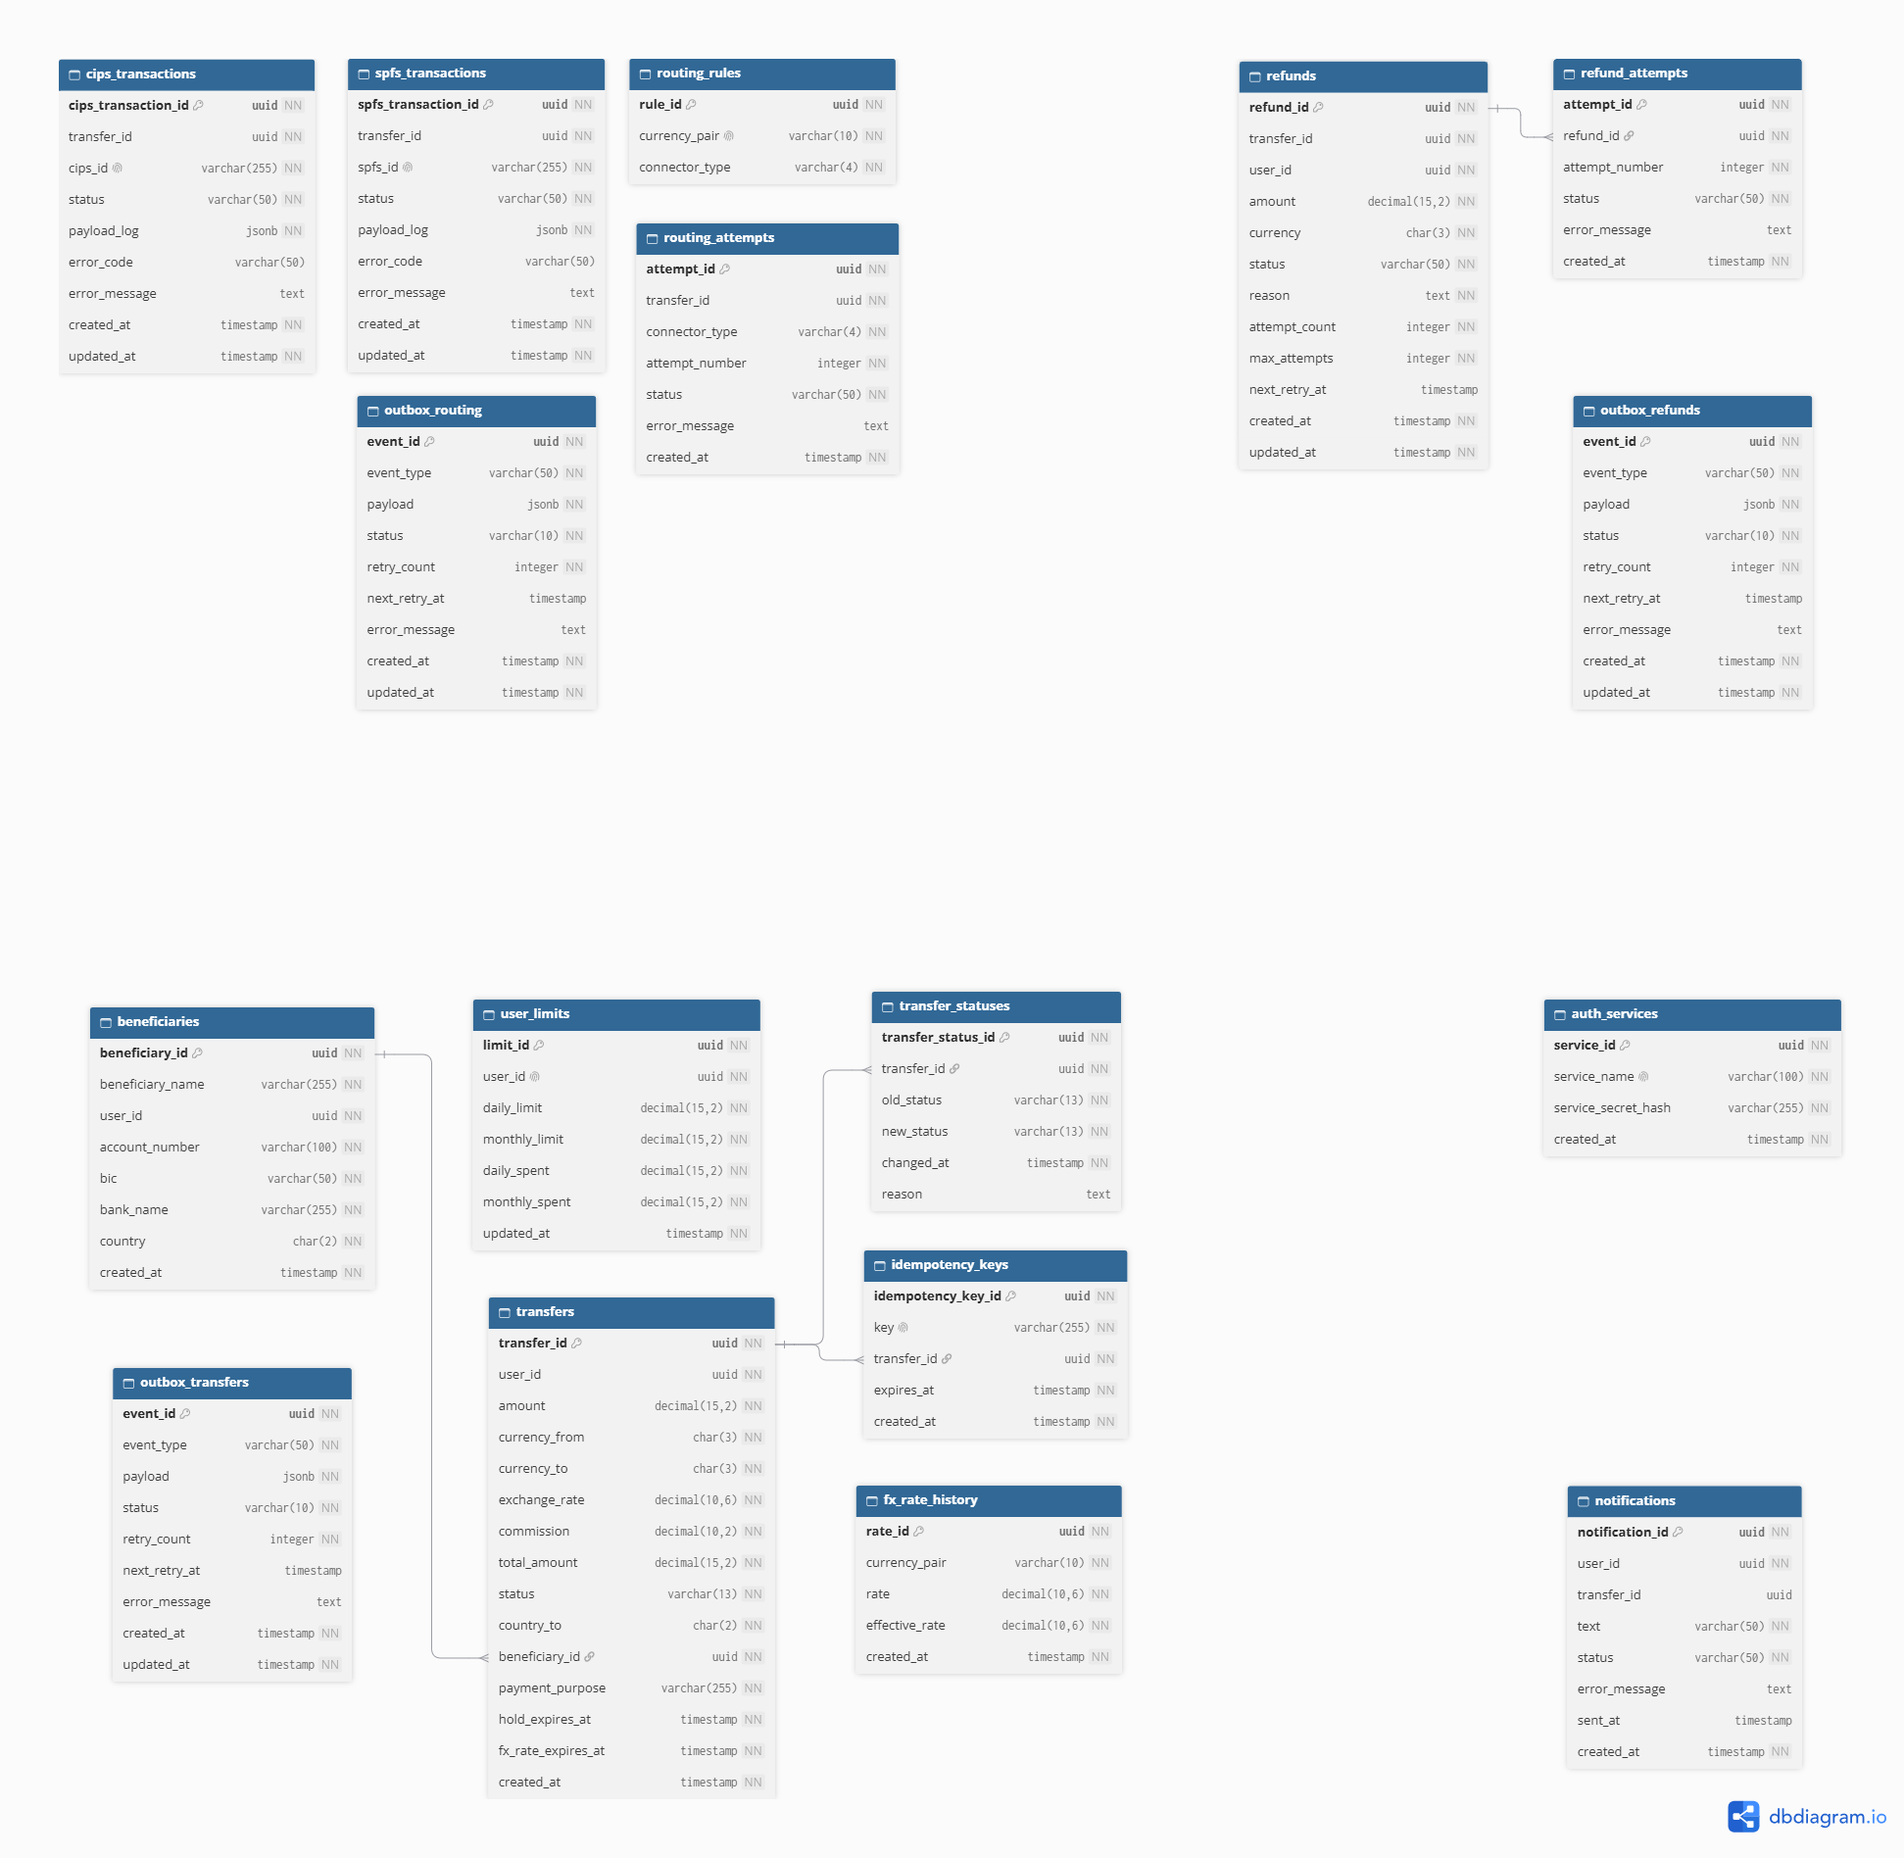
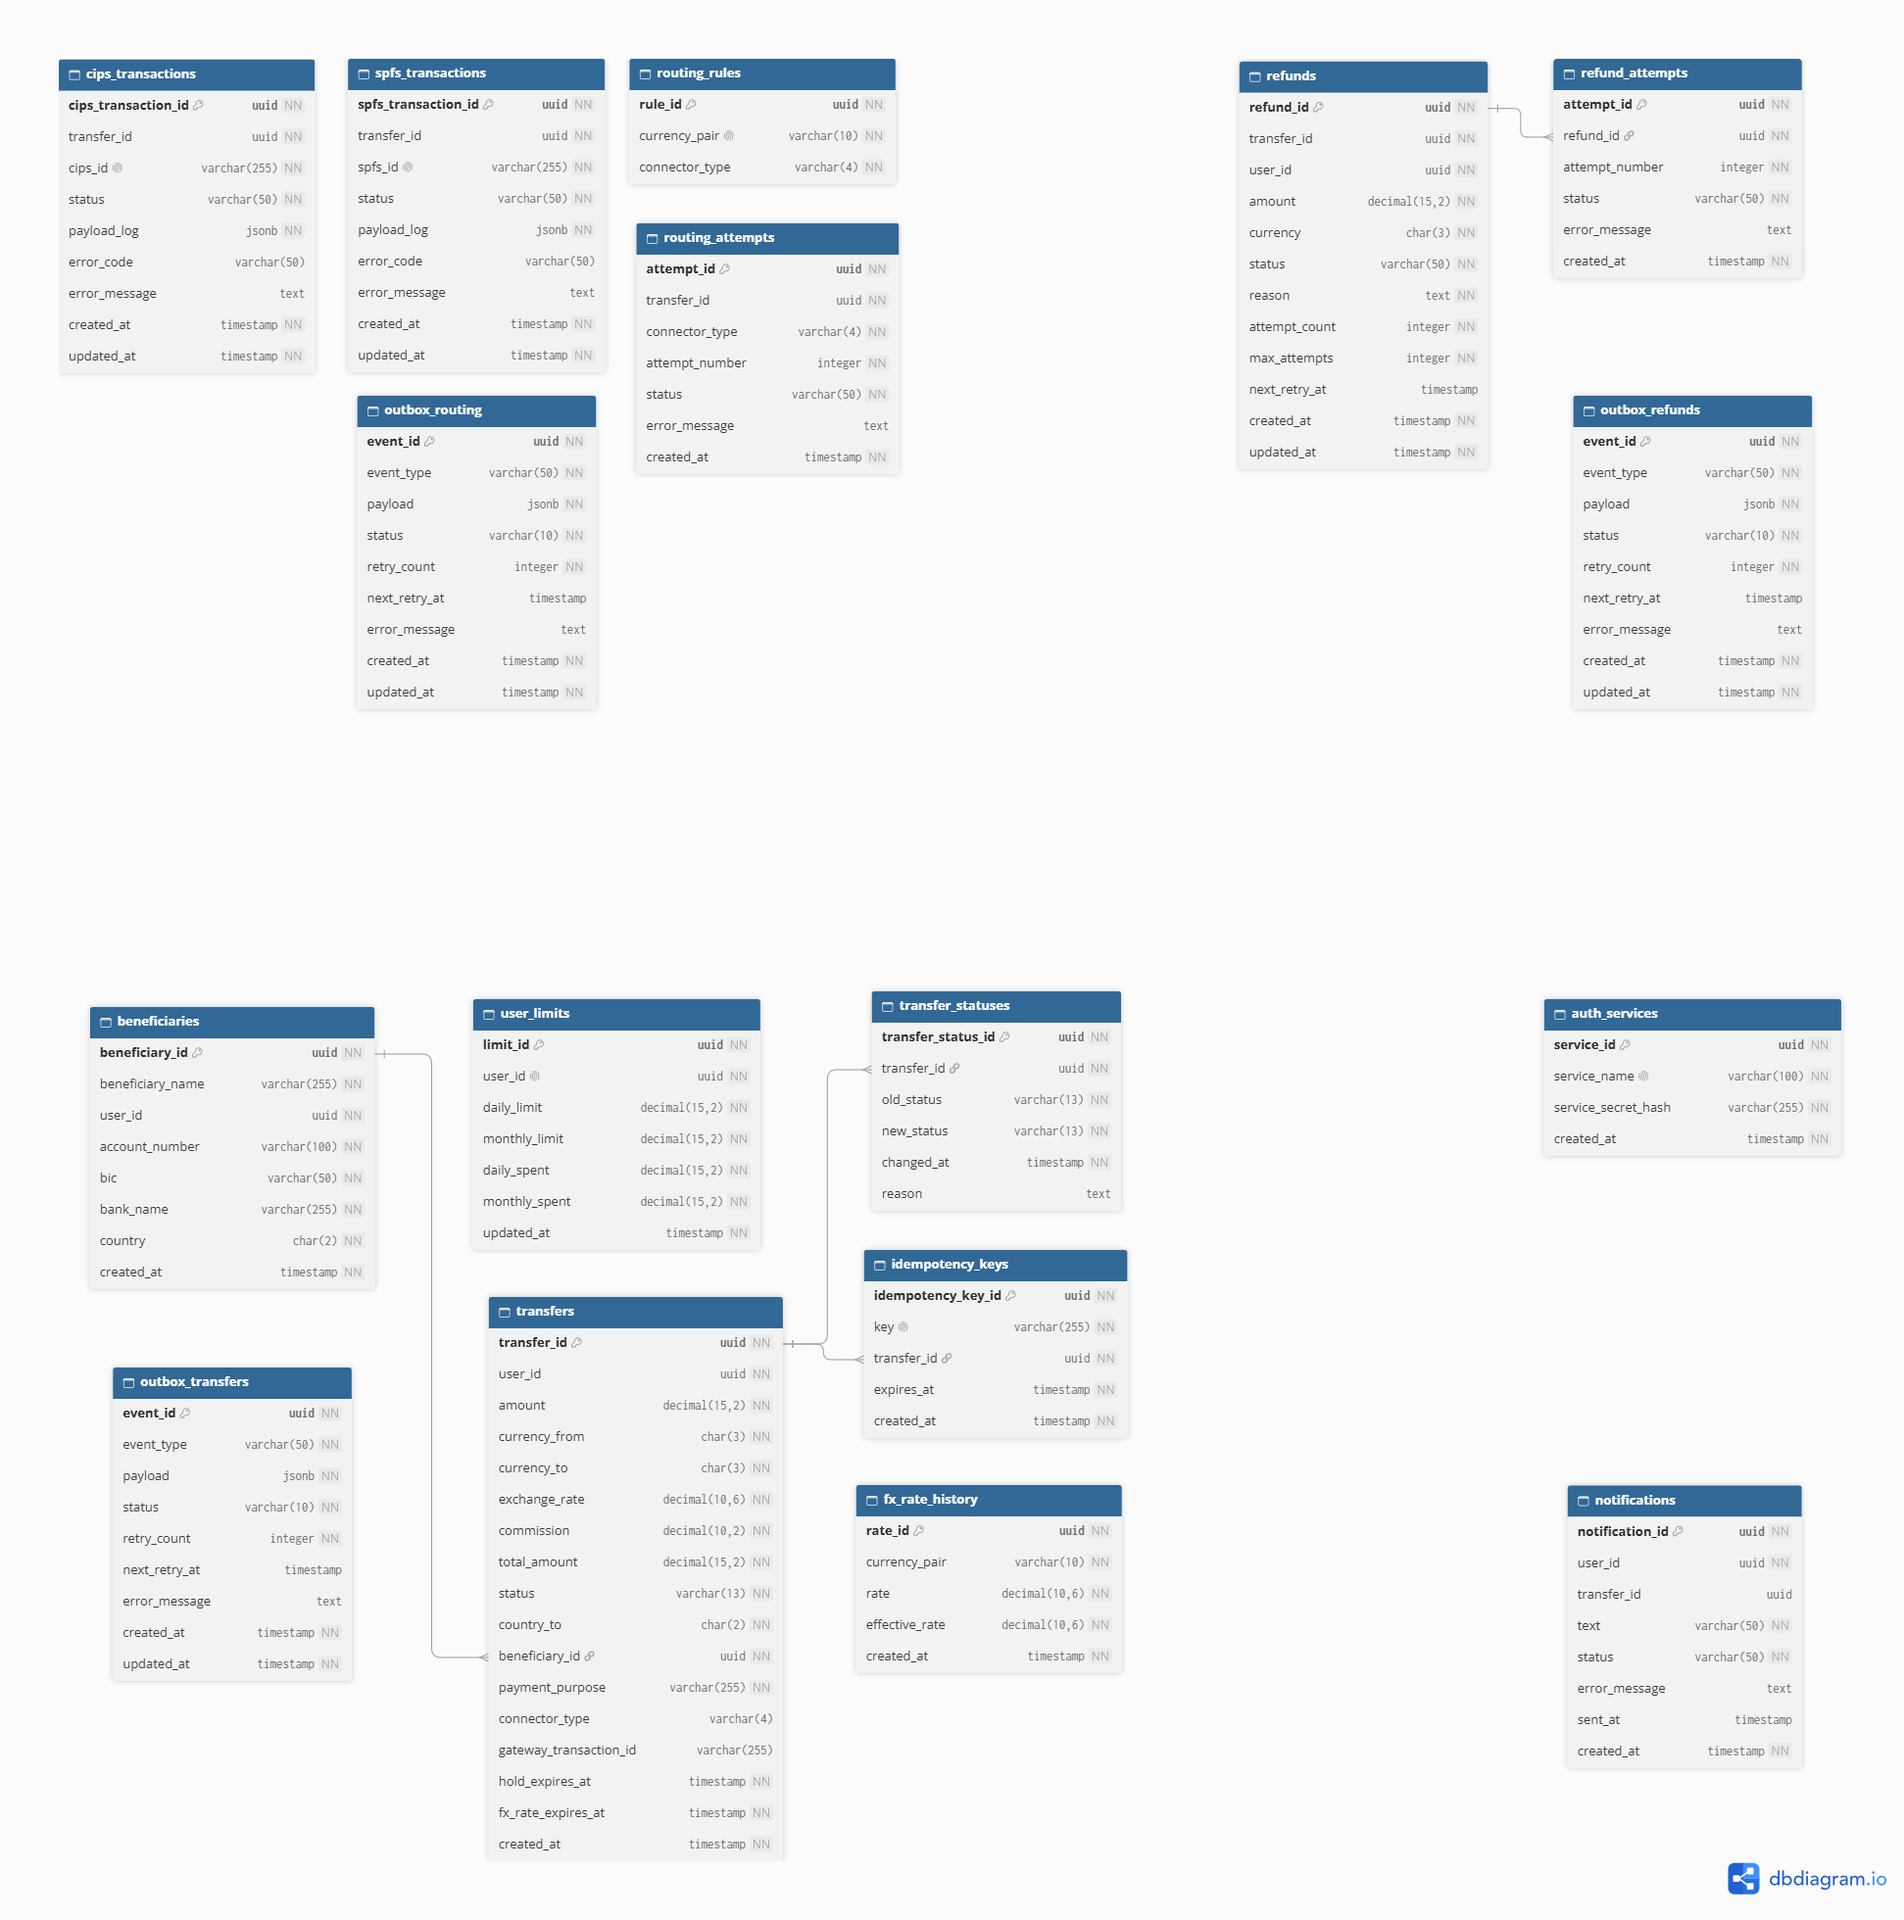
Исправить ошибки

diff --git a/04-API/Описание АПИ контрактов.md b/04-API/Описание АПИ контрактов.md
@@ -62,6 +62,8 @@ tags:
     description: Операции с переводами
   - name: fx
     description: Операции с курсами валют
+  - name: webhooks
+    description: Вебхуки от платёжных шлюзов
   
 paths:
   /transfers:
@@ -512,6 +514,120 @@ paths:
             application/json:
               schema:
                 $ref: '#/components/schemas/ErrorResponse'
+  /webhooks/spfs:
+    post:
+      summary: Вебхук от платёжной системы СПФС
+      description: Эндпоинт для получения уведомлений от платёжной системы СПФС об изменении статуса транзакции
+      tags:
+        - webhooks
+      operationId: webhookSpfs
+      security: []
+      parameters:
+        - name: X-Signature
+          in: header
+          required: true
+          schema:
+            type: string
+          description: HMAC-SHA256 подпись тела запроса
+        - name: X-Request-Id
+          in: header
+          required: true
+          schema:
+            type: string
+            format: uuid
+          description: Уникальный идентификатор запроса от шлюза 
+      requestBody:
+        required: true
+        content:
+          application/json:
+            schema:
+              $ref: '#/components/schemas/WebhookSpfsRequest'
+      responses:
+        '202':
+          description: Запрос принят на обработку
+        '400':
+          description: Ошибка валидации тела запроса
+          content:
+            application/json:
+              schema:
+                $ref: '#/components/schemas/ErrorResponse'
+        '401':
+          description: Неверная подпись запроса
+          content:
+            application/json:
+              schema:
+                $ref: '#/components/schemas/ErrorResponse'
+              example:
+                error:
+                  code: INVALID_SIGNATURE
+                  message: Неверная подпись запроса
+        '404':
+          description: Перевод не найден
+          content:
+            application/json:
+              schema:
+                $ref: '#/components/schemas/ErrorResponse'
+              example:
+                error:
+                  code: TRANSFER_NOT_FOUND
+                  message: Перевод по указанному transaction_id не найден
+  /webhooks/cips:
+    post:
+      summary: Вебхук от платёжной системы CIPS
+      description: Эндпоинт для получения уведомлений от платёжной системы CIPS об изменении статуса транзакции
+      tags:
+        - webhooks
+      operationId: webhookCips
+      security: []
+      parameters:
+        - name: X-Signature
+          in: header
+          required: true
+          schema:
+            type: string
+          description: HMAC-SHA256 подпись тела запроса
+        - name: X-Request-Id
+          in: header
+          required: true
+          schema:
+            type: string
+            format: uuid
+          description: Уникальный идентификатор запроса от шлюза 
+      requestBody:
+        required: true
+        content:
+          application/json:
+            schema:
+              $ref: '#/components/schemas/WebhookCipsRequest'
+      responses:
+        '202':
+          description: Запрос принят на обработку
+        '400':
+          description: Ошибка валидации тела запроса
+          content:
+            application/json:
+              schema:
+                $ref: '#/components/schemas/ErrorResponse'
+        '401':
+          description: Неверная подпись запроса
+          content:
+            application/json:
+              schema:
+                $ref: '#/components/schemas/ErrorResponse'
+              example:
+                error:
+                  code: INVALID_SIGNATURE
+                  message: Неверная подпись запроса
+        '404':
+          description: Перевод не найден
+          content:
+            application/json:
+              schema:
+                $ref: '#/components/schemas/ErrorResponse'
+              example:
+                error:
+                  code: TRANSFER_NOT_FOUND
+                  message: Перевод по указанному transaction_id не найден              
 
 components:
   securitySchemes:
@@ -795,6 +911,13 @@ components:
           type: string
           enum: [KZT, CNY]
           description: Валюта получателя
+        country_to:
+          type: string
+          minLength: 2
+          maxLength: 2
+          description: |
+            Двухбуквенный код страны получателя.
+            Необходим для определения направления и корректного расчета комиссии
 
     FxRateLockResponse:
       type: object
@@ -866,6 +989,82 @@ components:
           type: string
           format: date-time
           description: Дата создания возврата
+
+    WebhookSpfsRequest:
+      type: object
+      required:
+        - transaction_id
+        - transfer_id
+        - status
+        - timestamp
+      properties:
+        transaction_id:
+          type: string
+          description: Внешний идентификатор транзакции в СПФС
+        transfer_id:
+          type: string
+          format: uuid
+          description: Идентификатор перевода в нашей системе
+        status:
+          type: string
+          enum: [COMPLETED, FAILED, REJECTED, PENDING]
+          description: Статус транзакции в платёжной системе
+        amount:
+          type: number
+          format: double
+          description: Сумма транзакции в валюте получателя
+        currency:
+          type: string
+          enum: [KZT]
+          description: Валюта транзакции
+        timestamp:
+          type: string
+          format: date-time
+          description: Время события в платёжной системе
+        error_code:
+          type: string
+          description: Код ошибки (заполняется при статусе FAILED/REJECTED)
+        error_message:
+          type: string
+          description: Сообщение об ошибке (заполняется при статусе FAILED/REJECTED)
+    
+    WebhookCipsRequest:
+      type: object
+      required:
+        - transaction_id
+        - transfer_id
+        - status
+        - timestamp
+      properties:
+        transaction_id:
+          type: string
+          description: Внешний идентификатор транзакции в CIPS
+        transfer_id:
+          type: string
+          format: uuid
+          description: Идентификатор перевода в нашей системе
+        status:
+          type: string
+          enum: [COMPLETED, FAILED, REJECTED, PENDING]
+          description: Статус транзакции в платёжной системе
+        amount:
+          type: number
+          format: double
+          description: Сумма транзакции в валюте получателя
+        currency:
+          type: string
+          enum: [CNY]
+          description: Валюта транзакции
+        timestamp:
+          type: string
+          format: date-time
+          description: Время события в платёжной системе
+        error_code:
+          type: string
+          description: Код ошибки (заполняется при статусе FAILED/REJECTED)
+        error_message:
+          type: string
+          description: Сообщение об ошибке (заполняется при статусе FAILED/REJECTED)      
 
     ErrorResponse:
       type: object

diff --git a/03-database/Описание БД.md b/03-database/Описание БД.md
@@ -79,6 +79,8 @@
 | country_to | CHAR(2) | NOT NULL | Страна получателя |
 | beneficiary_id | UUID | NOT NULL, FK →  beneficiaries.beneficiary_id | Связь с бенефициаром |
 | payment_purpose | VARCHAR(255) | NOT NULL | Цель платежа |
+| connector_type | VARCHAR(4) | CHECK (connector_type IN ('SPFS', 'CIPS')) | Использованный платежный маршрут |
+| gateway_transaction_id | VARCHAR(255) | | Внешний ID транзакции в платежной системе |
 | hold_expires_at | TIMESTAMP | NOT NULL | Время истечения холдирования |
 | fx_rate_expires_at | TIMESTAMP | NOT NULL | Время истечения периода зафиксированного курса валюты |
 | created_at | TIMESTAMP | NOT NULL, DEFAULT NOW() | Дата создания перевода |
